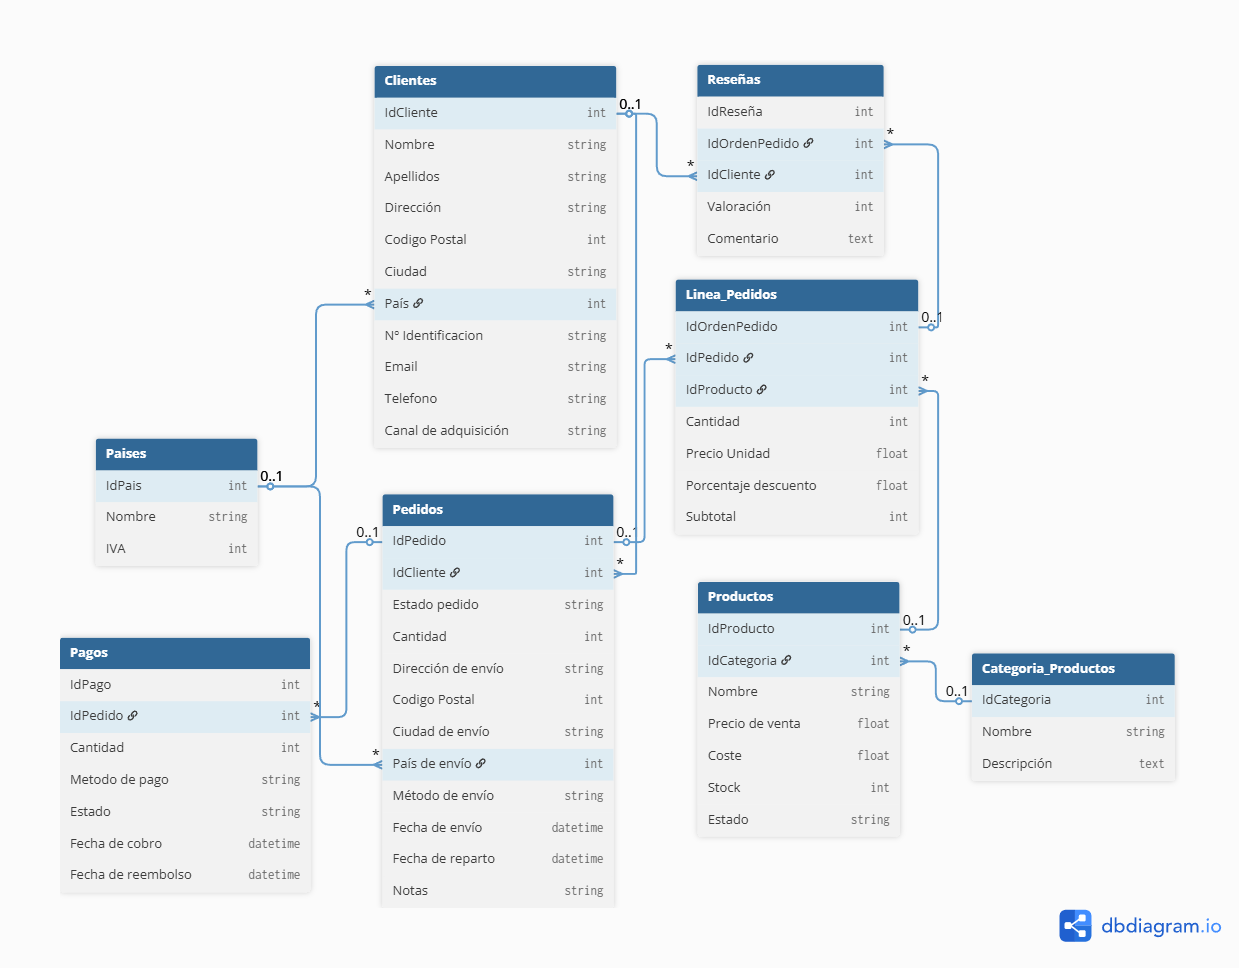
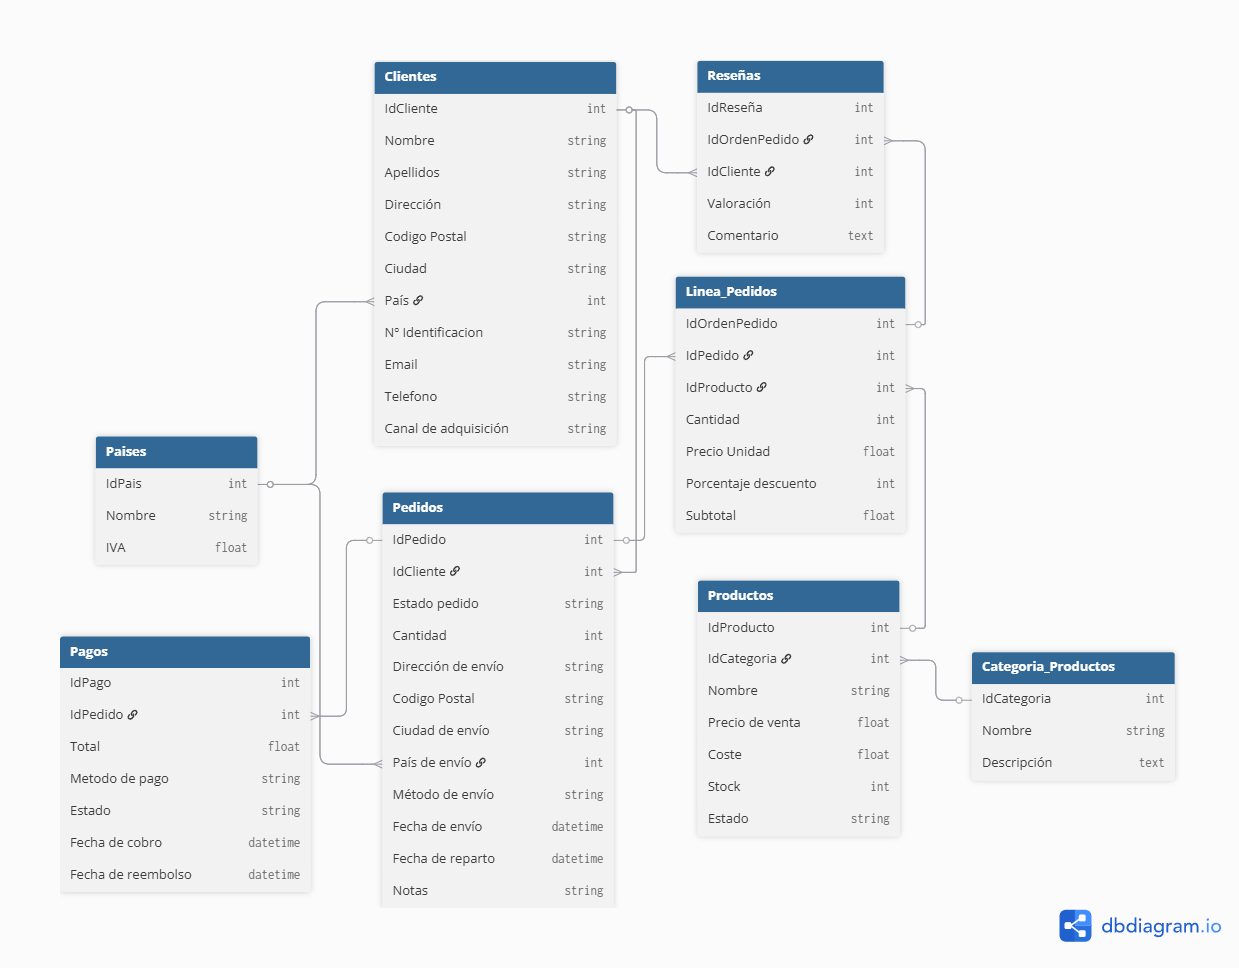
[Fix] - Cambios esquema y documentación

diff --git a/docs/normalization.md b/docs/normalization.md
@@ -40,10 +40,10 @@ Tabla maestra que centraliza la información fiscal y geográfica de cada país.
 |---|---:|---|
 | `IdPais` | INT | Identificador único de país, clave primaria |
 | `Nombre` | STRING | Nombre del país |
-| `IVA` | INT | Porcentaje de impuesto aplicado en ese país |
+| `IVA` | FLOAT | Porcentaje de impuesto aplicado en ese país |
 
 **Observación de diseño**
-- Se eliminó el campo `Continente` porque no aporta valor funcional directo al modelo transaccional.
+
 - Esta tabla se utiliza como referencia fiscal tanto para clientes como para pedidos.
 
 </details>
@@ -82,8 +82,7 @@ Representa el inventario vendible.
 
 **Observación de diseño**
 - Los importes pasan a `FLOAT` en el esquema actual, lo que permite decimales.
-- Si el modelo se usara para facturación estricta, `DECIMAL` sería una opción más robusta, pero aquí se documenta el esquema real exportado.
-
+- Si el modelo se usara para facturación estricta, `DECIMAL` sería una opción más robusta.
 </details>
 
 <details>
@@ -97,18 +96,16 @@ Contiene la información de los clientes del sistema.
 | `Nombre` | STRING |  | Nombre |
 | `Apellidos` | STRING |  | Apellidos |
 | `Dirección` | STRING |  | Dirección postal |
-| `Codigo Postal` | INT |  | Código postal |
+| `Codigo Postal` | STRING |  | Código postal |
 | `Ciudad` | STRING |  | Ciudad |
-| `País` | STRING | FK → `Paises.IdPais` | País de residencia |
+| `País` | INT | FK → `Paises.IdPais` | País de residencia |
 | `Nº Identificacion` | STRING |  | Documento de identidad |
 | `Email` | STRING |  | Correo electrónico |
 | `Telefono` | STRING |  | Teléfono |
 | `Canal de adquisición` | STRING |  | Origen de captación del cliente |
 
 **Observación de diseño**
-- El campo `País` se documenta como `STRING` porque así aparece en la exportación, pero lógicamente actúa como una FK a `Paises.IdPais`.
-- En una versión final convendría alinear el tipo físico con la PK referenciada para evitar inconsistencias de implementación.
-- `Nº Identificacion` permanece como texto porque puede incluir formatos heterogéneos.
+- `Nº Identificacion`, `Codigo postal` y `Telefono` permanece como texto porque puede incluir formatos heterogéneos.
 
 </details>
 
@@ -120,7 +117,7 @@ Registra las órdenes de compra.
 | Campo | Tipo | Relación | Descripción |
 |---|---:|---|---|
 | `IdPedido` | INT | PK | Identificador del pedido |
-| `IdCliente` | STRING | FK → `Clientes.IdCliente` | Cliente que realiza la compra |
+| `IdCliente` | INT | FK → `Clientes.IdCliente` | Cliente que realiza la compra |
 | `Estado pedido` | STRING |  | Estado del pedido |
 | `Cantidad` | INT |  | Cantidad total de artículos |
 | `Dirección de envío` | STRING |  | Dirección de entrega |
@@ -135,7 +132,7 @@ Registra las órdenes de compra.
 **Observación de diseño**
 - El sistema conserva la dirección de envío como parte del pedido para mantener el histórico exacto del momento de la compra.
 - El país de envío se separa del país del cliente porque un cliente puede residir en un país y recibir el pedido en otro.
-- El campo `IdCliente` aparece como `STRING` en la exportación; a nivel lógico debería ser compatible con `Clientes.IdCliente`.
+
 
 </details>
 
@@ -151,12 +148,12 @@ Detalle de cada producto incluido en un pedido.
 | `IDProducto` | INT | FK → `Productos.IdProducto` | Producto vendido |
 | `Cantidad` | INT |  | Unidades vendidas |
 | `Precio Unidad` | FLOAT |  | Precio unitario en el momento de la venta |
-| `Porcentaje descuento` | FLOAT |  | Descuento aplicado |
-| `Subtotal` | INT |  | Total calculado de la línea |
+| `Porcentaje descuento` | INT |  | Descuento aplicado |
+| `Subtotal` | FLOAT |  | Total calculado de la línea |
 
 **Observación de diseño**
 - La tabla separa la relación N:M entre pedidos y productos.
-- `Precio Unidad` y `Porcentaje descuento` usan `FLOAT` para conservar decimales.
+- `Precio Unidad` y `Subtotal` usan `FLOAT` para conservar decimales, mientras que `Porcentaje descuento` es INT porque se trata de un porcentaje de 0 a 100%
 - `Subtotal` se almacena para facilitar consultas y reportes sin recalcular constantemente.
 - La decisión de guardar el precio en la línea preserva el valor histórico aunque el precio del producto cambie después.
 
@@ -171,7 +168,7 @@ Gestiona las transacciones de cobro y reembolso.
 |---|---:|---|---|
 | `IdPago` | INT | PK | Identificador del pago |
 | `IdPedido` | INT | FK → `Pedidos.IdPedido` | Pedido asociado |
-| `Cantidad` | INT |  | Importe pagado |
+| `Total` | FLOAT |  | Importe pagado |
 | `Metodo de pago` | STRING |  | Medio de pago |
 | `Estado` | STRING |  | Estado de la transacción |
 | `Fecha de cobro` | DATETIME |  | Fecha de cobro |
@@ -179,7 +176,7 @@ Gestiona las transacciones de cobro y reembolso.
 
 **Observación de diseño**
 - La entidad de pagos queda separada del pedido para soportar estados de cobro y reembolso con trazabilidad.
-- El campo `Cantidad` representa el importe transaccionado.
+- El campo `Total` representa el importe transaccionado.
 
 </details>
 
@@ -242,8 +239,7 @@ La tercera forma normal exige que no existan dependencias transitivas entre atri
 
 #### `Clientes.País`
 - Está relacionado con `Paises`, porque el país es un dato fiscal y no una simple etiqueta textual.
-- En la exportación aparece como `STRING`, pero el modelo lógico lo trata como referencia a `IdPais`.
-- Conviene alinear el tipo físico con la FK si se implementa una versión final del esquema.
+
 
 #### `Pedidos.Dirección de envío`
 - Se almacena para conservar el estado exacto del pedido en el momento de compra.
@@ -260,7 +256,7 @@ La tercera forma normal exige que no existan dependencias transitivas entre atri
 ## Decisiones de Diseño
 
 ### Tipos numéricos
-- Los precios y descuentos se han documentado como `FLOAT` porque así aparece el esquema modificado.
+- Los precios se han documentado como `FLOAT`.
 - Para importes contables críticos, `DECIMAL` sería más seguro, pero el documento debe reflejar el modelo actual.
 - `Stock` y cantidades se mantienen como `INT` porque representan unidades completas.
 
